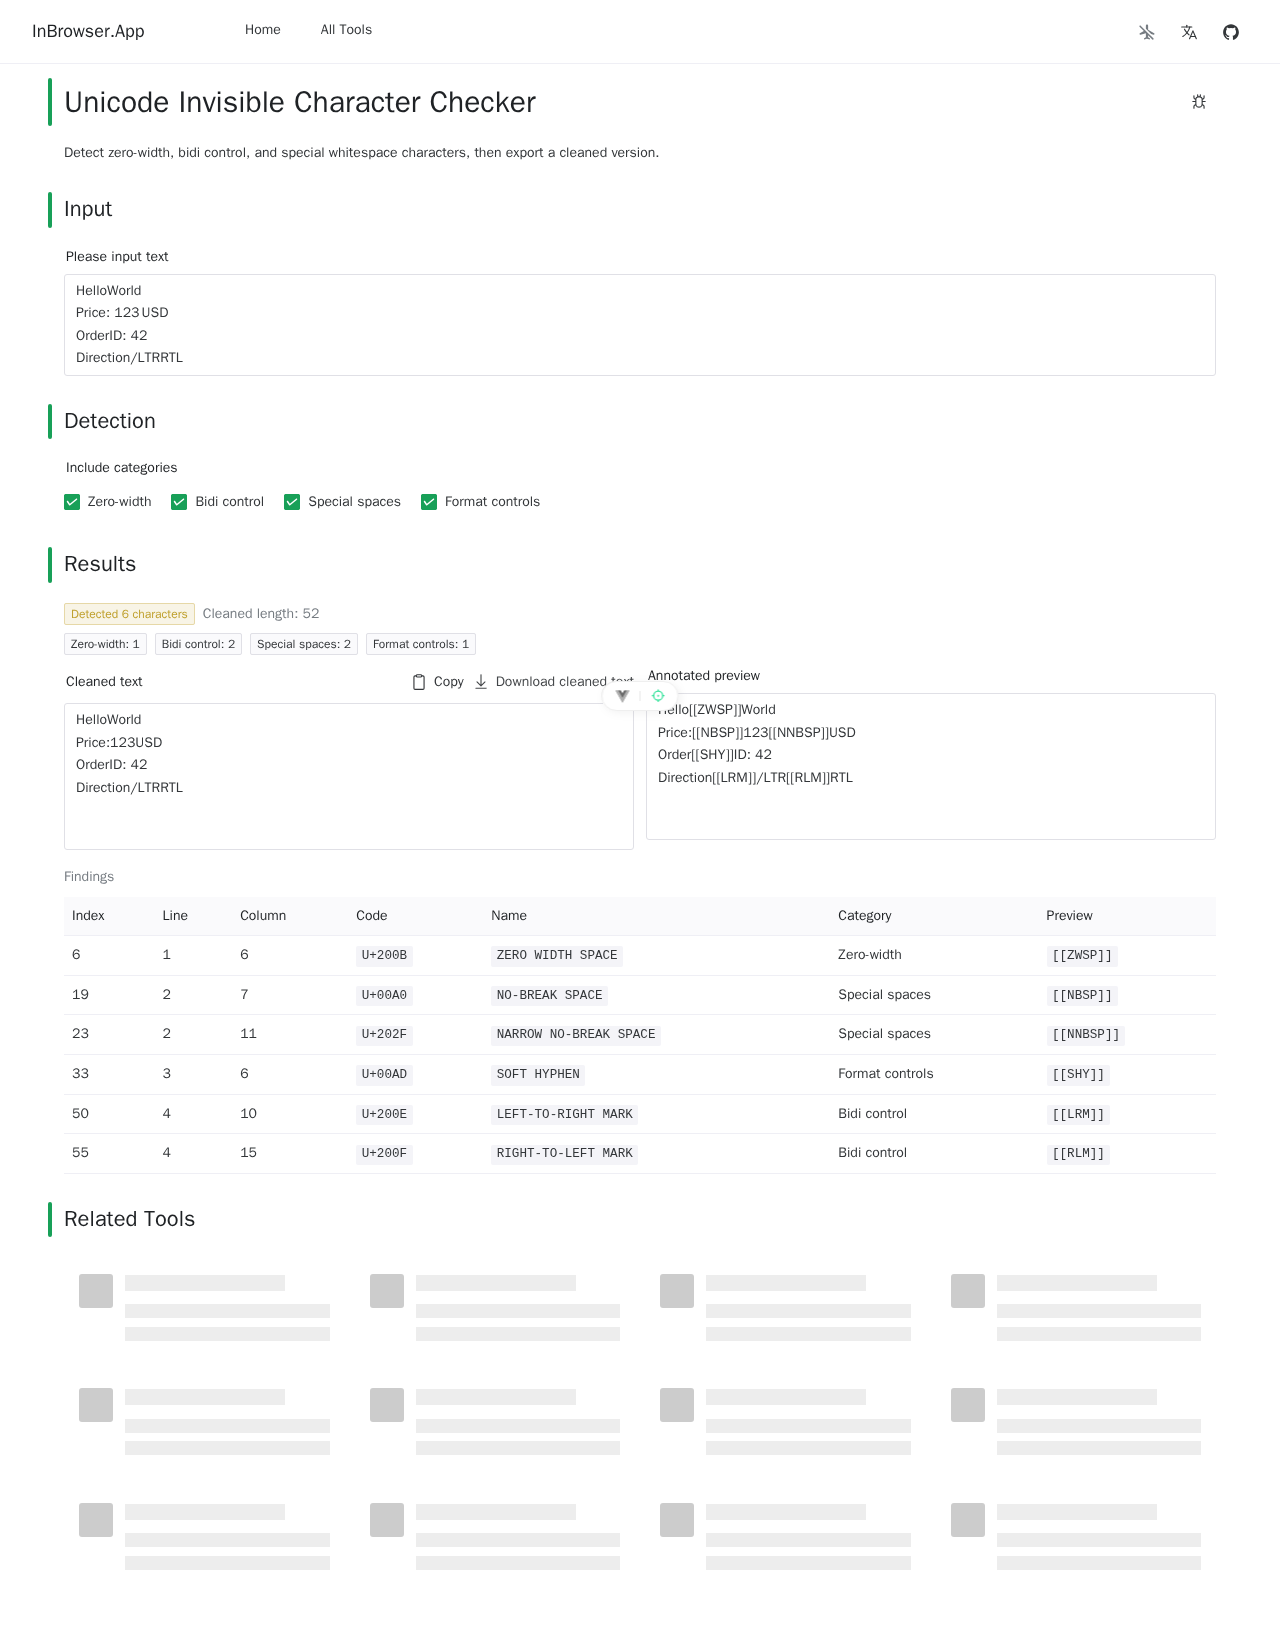
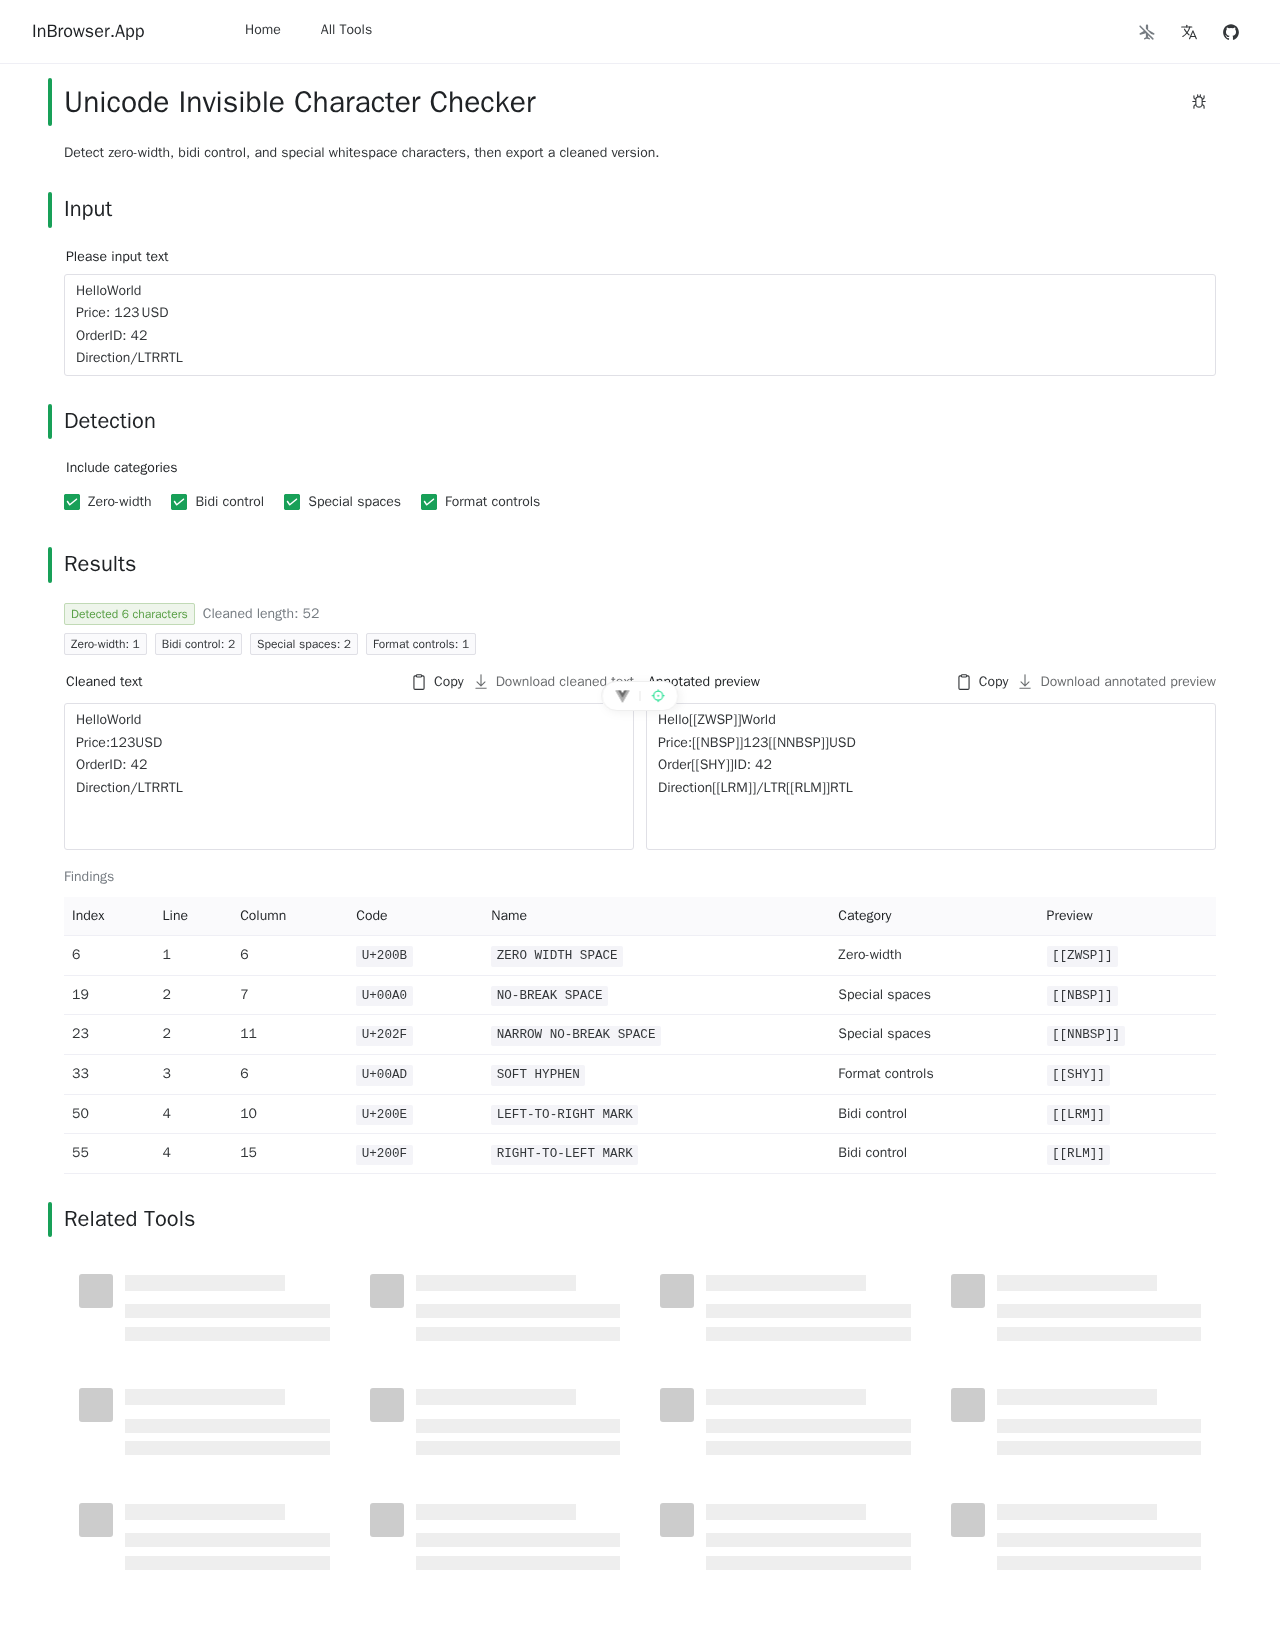
feat(tools): add copy and download for annotated preview

Changed region(s): [[0.5, 0.4028, 0.6562, 0.4957], [0.8125, 0.4028, 0.9375, 0.4338], [0.75, 0.4028, 0.7812, 0.4338]]

diff --git a/tools/text/unicode-invisible-character-checker/src/components/UnicodeInvisibleCharacterChecker.vue b/tools/text/unicode-invisible-character-checker/src/components/UnicodeInvisibleCharacterChecker.vue
@@ -67,7 +67,27 @@
         />
       </n-form-item-gi>
 
-      <n-form-item-gi :label="t('annotated-title')" :show-feedback="false">
+      <n-form-item-gi :show-feedback="false" label-style="width: 100%">
+        <template #label>
+          <n-flex align="center" justify="space-between" class="output-label">
+            <span>{{ t('annotated-title') }}</span>
+            <n-flex align="center" :size="8" class="output-actions">
+              <CopyToClipboardButton :content="annotatedText" />
+              <n-button
+                tag="a"
+                text
+                :href="annotatedDownloadUrl"
+                download="annotated.txt"
+                :disabled="!annotatedText"
+              >
+                <template #icon>
+                  <n-icon :component="ArrowDownload16Regular" />
+                </template>
+                {{ t('download-annotated') }}
+              </n-button>
+            </n-flex>
+          </n-flex>
+        </template>
         <n-input
           :value="annotatedText"
           type="textarea"
@@ -173,6 +193,10 @@ const downloadBlob = computed(
   () => new Blob([cleanedText.value], { type: 'text/plain;charset=utf-8' }),
 )
 const downloadUrl = useObjectUrl(downloadBlob)
+const annotatedBlob = computed(
+  () => new Blob([annotatedText.value], { type: 'text/plain;charset=utf-8' }),
+)
+const annotatedDownloadUrl = useObjectUrl(annotatedBlob)
 
 const categoryLabels = computed<Record<InvisibleCategory, string>>(() => ({
   'zero-width': t('category.zero-width'),
@@ -271,6 +295,7 @@ const columns = computed<DataTableColumns<InvisibleMatch>>(() => [
     "summary-clean-length": "Cleaned length: {count}",
     "cleaned-title": "Cleaned text",
     "download-cleaned": "Download cleaned text",
+    "download-annotated": "Download annotated preview",
     "annotated-title": "Annotated preview",
     "table-title": "Findings",
     "column-index": "Index",
@@ -296,6 +321,7 @@ const columns = computed<DataTableColumns<InvisibleMatch>>(() => [
     "summary-clean-length": "清理后长度：{count}",
     "cleaned-title": "清理后的文本",
     "download-cleaned": "下载清理文本",
+    "download-annotated": "下载标注预览",
     "annotated-title": "标注预览",
     "table-title": "发现项",
     "column-index": "索引",
@@ -321,6 +347,7 @@ const columns = computed<DataTableColumns<InvisibleMatch>>(() => [
     "summary-clean-length": "清理后长度：{count}",
     "cleaned-title": "清理后的文本",
     "download-cleaned": "下载清理文本",
+    "download-annotated": "下载标注预览",
     "annotated-title": "标注预览",
     "table-title": "发现项",
     "column-index": "索引",
@@ -346,6 +373,7 @@ const columns = computed<DataTableColumns<InvisibleMatch>>(() => [
     "summary-clean-length": "清理後長度：{count}",
     "cleaned-title": "清理後的文字",
     "download-cleaned": "下載清理文字",
+    "download-annotated": "下載標註預覽",
     "annotated-title": "標註預覽",
     "table-title": "發現項目",
     "column-index": "索引",
@@ -371,6 +399,7 @@ const columns = computed<DataTableColumns<InvisibleMatch>>(() => [
     "summary-clean-length": "清理後長度：{count}",
     "cleaned-title": "清理後的文字",
     "download-cleaned": "下載清理文字",
+    "download-annotated": "下載標註預覽",
     "annotated-title": "標註預覽",
     "table-title": "發現項目",
     "column-index": "索引",
@@ -396,6 +425,7 @@ const columns = computed<DataTableColumns<InvisibleMatch>>(() => [
     "summary-clean-length": "Longitud limpia: {count}",
     "cleaned-title": "Texto limpio",
     "download-cleaned": "Descargar texto limpio",
+    "download-annotated": "Descargar vista anotada",
     "annotated-title": "Vista anotada",
     "table-title": "Hallazgos",
     "column-index": "Índice",
@@ -421,6 +451,7 @@ const columns = computed<DataTableColumns<InvisibleMatch>>(() => [
     "summary-clean-length": "Longueur nettoyée : {count}",
     "cleaned-title": "Texte nettoyé",
     "download-cleaned": "Télécharger le texte nettoyé",
+    "download-annotated": "Télécharger l'aperçu annoté",
     "annotated-title": "Aperçu annoté",
     "table-title": "Résultats",
     "column-index": "Index",
@@ -446,6 +477,7 @@ const columns = computed<DataTableColumns<InvisibleMatch>>(() => [
     "summary-clean-length": "Bereinigte Länge: {count}",
     "cleaned-title": "Bereinigter Text",
     "download-cleaned": "Bereinigten Text herunterladen",
+    "download-annotated": "Annotierte Vorschau herunterladen",
     "annotated-title": "Annotierte Vorschau",
     "table-title": "Funde",
     "column-index": "Index",
@@ -471,6 +503,7 @@ const columns = computed<DataTableColumns<InvisibleMatch>>(() => [
     "summary-clean-length": "Lunghezza pulita: {count}",
     "cleaned-title": "Testo pulito",
     "download-cleaned": "Scarica testo pulito",
+    "download-annotated": "Scarica anteprima annotata",
     "annotated-title": "Anteprima annotata",
     "table-title": "Risultati",
     "column-index": "Indice",
@@ -496,6 +529,7 @@ const columns = computed<DataTableColumns<InvisibleMatch>>(() => [
     "summary-clean-length": "クリーン長さ: {count}",
     "cleaned-title": "クリーンなテキスト",
     "download-cleaned": "クリーンテキストをダウンロード",
+    "download-annotated": "注釈付きプレビューをダウンロード",
     "annotated-title": "注釈付きプレビュー",
     "table-title": "検出結果",
     "column-index": "インデックス",
@@ -521,6 +555,7 @@ const columns = computed<DataTableColumns<InvisibleMatch>>(() => [
     "summary-clean-length": "정리된 길이: {count}",
     "cleaned-title": "정리된 텍스트",
     "download-cleaned": "정리된 텍스트 다운로드",
+    "download-annotated": "주석 미리보기 다운로드",
     "annotated-title": "주석 미리보기",
     "table-title": "감지 결과",
     "column-index": "인덱스",
@@ -546,6 +581,7 @@ const columns = computed<DataTableColumns<InvisibleMatch>>(() => [
     "summary-clean-length": "Очищенная длина: {count}",
     "cleaned-title": "Очищенный текст",
     "download-cleaned": "Скачать очищенный текст",
+    "download-annotated": "Скачать аннотированный просмотр",
     "annotated-title": "Аннотированный просмотр",
     "table-title": "Найдено",
     "column-index": "Индекс",
@@ -571,6 +607,7 @@ const columns = computed<DataTableColumns<InvisibleMatch>>(() => [
     "summary-clean-length": "Comprimento limpo: {count}",
     "cleaned-title": "Texto limpo",
     "download-cleaned": "Baixar texto limpo",
+    "download-annotated": "Baixar pré-visualização anotada",
     "annotated-title": "Pré-visualização anotada",
     "table-title": "Achados",
     "column-index": "Índice",
@@ -596,6 +633,7 @@ const columns = computed<DataTableColumns<InvisibleMatch>>(() => [
     "summary-clean-length": "الطول بعد التنظيف: {count}",
     "cleaned-title": "نص نظيف",
     "download-cleaned": "تنزيل النص النظيف",
+    "download-annotated": "تنزيل المعاينة مع تعليقات",
     "annotated-title": "معاينة مع تعليقات",
     "table-title": "الاكتشافات",
     "column-index": "الفهرس",
@@ -621,6 +659,7 @@ const columns = computed<DataTableColumns<InvisibleMatch>>(() => [
     "summary-clean-length": "साफ़ लंबाई: {count}",
     "cleaned-title": "साफ़ किया गया टेक्स्ट",
     "download-cleaned": "साफ़ टेक्स्ट डाउनलोड करें",
+    "download-annotated": "एनोटेटेड पूर्वावलोकन डाउनलोड करें",
     "annotated-title": "एनोटेटेड पूर्वावलोकन",
     "table-title": "मिले हुए",
     "column-index": "सूचकांक",
@@ -646,6 +685,7 @@ const columns = computed<DataTableColumns<InvisibleMatch>>(() => [
     "summary-clean-length": "Temiz uzunluk: {count}",
     "cleaned-title": "Temizlenmiş metin",
     "download-cleaned": "Temizlenmiş metni indir",
+    "download-annotated": "Açıklamalı önizlemeyi indir",
     "annotated-title": "Açıklamalı önizleme",
     "table-title": "Bulunanlar",
     "column-index": "Dizin",
@@ -671,6 +711,7 @@ const columns = computed<DataTableColumns<InvisibleMatch>>(() => [
     "summary-clean-length": "Schone lengte: {count}",
     "cleaned-title": "Schone tekst",
     "download-cleaned": "Schone tekst downloaden",
+    "download-annotated": "Geannoteerd voorbeeld downloaden",
     "annotated-title": "Geannoteerd voorbeeld",
     "table-title": "Vondsten",
     "column-index": "Index",
@@ -696,6 +737,7 @@ const columns = computed<DataTableColumns<InvisibleMatch>>(() => [
     "summary-clean-length": "Rensad längd: {count}",
     "cleaned-title": "Rensad text",
     "download-cleaned": "Ladda ner rensad text",
+    "download-annotated": "Ladda ner annoterad förhandsvisning",
     "annotated-title": "Annoterad förhandsvisning",
     "table-title": "Fynd",
     "column-index": "Index",
@@ -721,6 +763,7 @@ const columns = computed<DataTableColumns<InvisibleMatch>>(() => [
     "summary-clean-length": "Oczyszczona długość: {count}",
     "cleaned-title": "Oczyszczony tekst",
     "download-cleaned": "Pobierz oczyszczony tekst",
+    "download-annotated": "Pobierz podgląd z adnotacjami",
     "annotated-title": "Podgląd z adnotacjami",
     "table-title": "Znalezione",
     "column-index": "Indeks",
@@ -746,6 +789,7 @@ const columns = computed<DataTableColumns<InvisibleMatch>>(() => [
     "summary-clean-length": "Độ dài đã làm sạch: {count}",
     "cleaned-title": "Văn bản đã làm sạch",
     "download-cleaned": "Tải văn bản đã làm sạch",
+    "download-annotated": "Tải bản xem trước có chú thích",
     "annotated-title": "Xem trước có chú thích",
     "table-title": "Phát hiện",
     "column-index": "Chỉ mục",
@@ -771,6 +815,7 @@ const columns = computed<DataTableColumns<InvisibleMatch>>(() => [
     "summary-clean-length": "ความยาวที่ทำความสะอาดแล้ว: {count}",
     "cleaned-title": "ข้อความที่ทำความสะอาดแล้ว",
     "download-cleaned": "ดาวน์โหลดข้อความที่ทำความสะอาดแล้ว",
+    "download-annotated": "ดาวน์โหลดตัวอย่างที่มีคำอธิบาย",
     "annotated-title": "ตัวอย่างที่มีคำอธิบาย",
     "table-title": "รายการที่พบ",
     "column-index": "ดัชนี",
@@ -796,6 +841,7 @@ const columns = computed<DataTableColumns<InvisibleMatch>>(() => [
     "summary-clean-length": "Panjang bersih: {count}",
     "cleaned-title": "Teks bersih",
     "download-cleaned": "Unduh teks bersih",
+    "download-annotated": "Unduh pratinjau beranotasi",
     "annotated-title": "Pratinjau beranotasi",
     "table-title": "Temuan",
     "column-index": "Indeks",
@@ -821,6 +867,7 @@ const columns = computed<DataTableColumns<InvisibleMatch>>(() => [
     "summary-clean-length": "אורך נקי: {count}",
     "cleaned-title": "טקסט נקי",
     "download-cleaned": "הורד טקסט נקי",
+    "download-annotated": "הורד תצוגה מוערת",
     "annotated-title": "תצוגה מוערת",
     "table-title": "ממצאים",
     "column-index": "אינדקס",
@@ -846,6 +893,7 @@ const columns = computed<DataTableColumns<InvisibleMatch>>(() => [
     "summary-clean-length": "Panjang bersih: {count}",
     "cleaned-title": "Teks bersih",
     "download-cleaned": "Muat turun teks bersih",
+    "download-annotated": "Muat turun pratonton beranotasi",
     "annotated-title": "Pratonton beranotasi",
     "table-title": "Dapatan",
     "column-index": "Indeks",
@@ -871,6 +919,7 @@ const columns = computed<DataTableColumns<InvisibleMatch>>(() => [
     "summary-clean-length": "Renset lengde: {count}",
     "cleaned-title": "Renset tekst",
     "download-cleaned": "Last ned renset tekst",
+    "download-annotated": "Last ned annotert forhåndsvisning",
     "annotated-title": "Annotert forhåndsvisning",
     "table-title": "Funn",
     "column-index": "Indeks",
